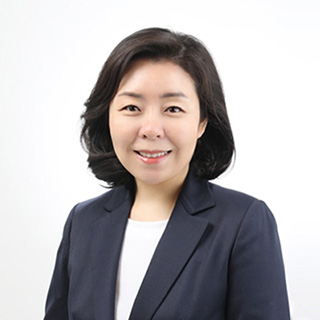
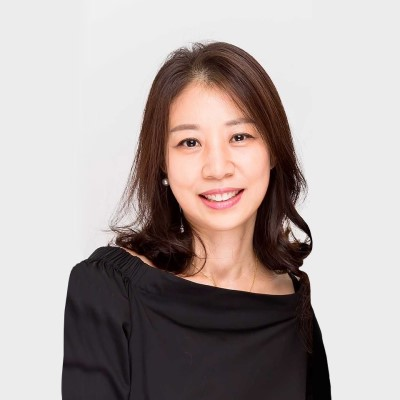
Add files via upload

diff --git a/index.html b/index.html
@@ -109,10 +109,10 @@
                     <p>미국대학 과학 및 수학 학사, 석사 학위를 취득하였으며, 국제학교 및 어학원 티칭 및 운영 경험 약 20년</p>
                 </div>
                 <div class="leader">
-                    <img src="img/team_003.jpg" alt="Helen Ko 프로필 이미지">
-                    <h4>Helen Ko</h4>
+                    <img src="img/team_003.jpg" alt="Joanna Park 프로필 이미지">
+                    <h4>Joanna Park</h4>
                     <h5>Principal</h5>
-                    <p>미국대학 학사 학위, 이대 영재교육 석박사 출신으로 영어유치원 관리자 티칭 경력이 있으며, 이대 박사 연구소 운영을 통해 자체 교재개발 및 심리교육 상담 전문가</p>
+                    <p>교육학 학사 및 석사, 에더블빌리지 & 라이브러리 원장 5년 근무, BEK Prep Head of Administration, Guru Prep 프로그램개발 연구원</p>
                 </div>
             </div>
         </div>
@@ -282,6 +282,7 @@
             <div>
                 <a href="http://www.roocs.org" target="_blank"><img src="img/ic_web_wl.png" alt="웹사이트 바로가기"></a>
                 <a href="https://www.instagram.com/rooseveltcollegiate" target="_blank"><img src="img/ic_instagram_wl.png" alt="인스타그램 바로가기"></a>
+                <a href="https://blog.naver.com/rooseveltcollegiate" target="_blank"><img src="img/ic_blog_wl.png" alt="블로그 바로가기"></a>
             </div>
         </div>
     </footer>

diff --git a/style.css b/style.css
@@ -798,7 +798,7 @@ footer{
     opacity: 0.6;
 }
 
-.footer-wrapper > div > a:nth-of-type(1){
+.footer-wrapper > div > a{
     margin-right: 8px;
 }
 
